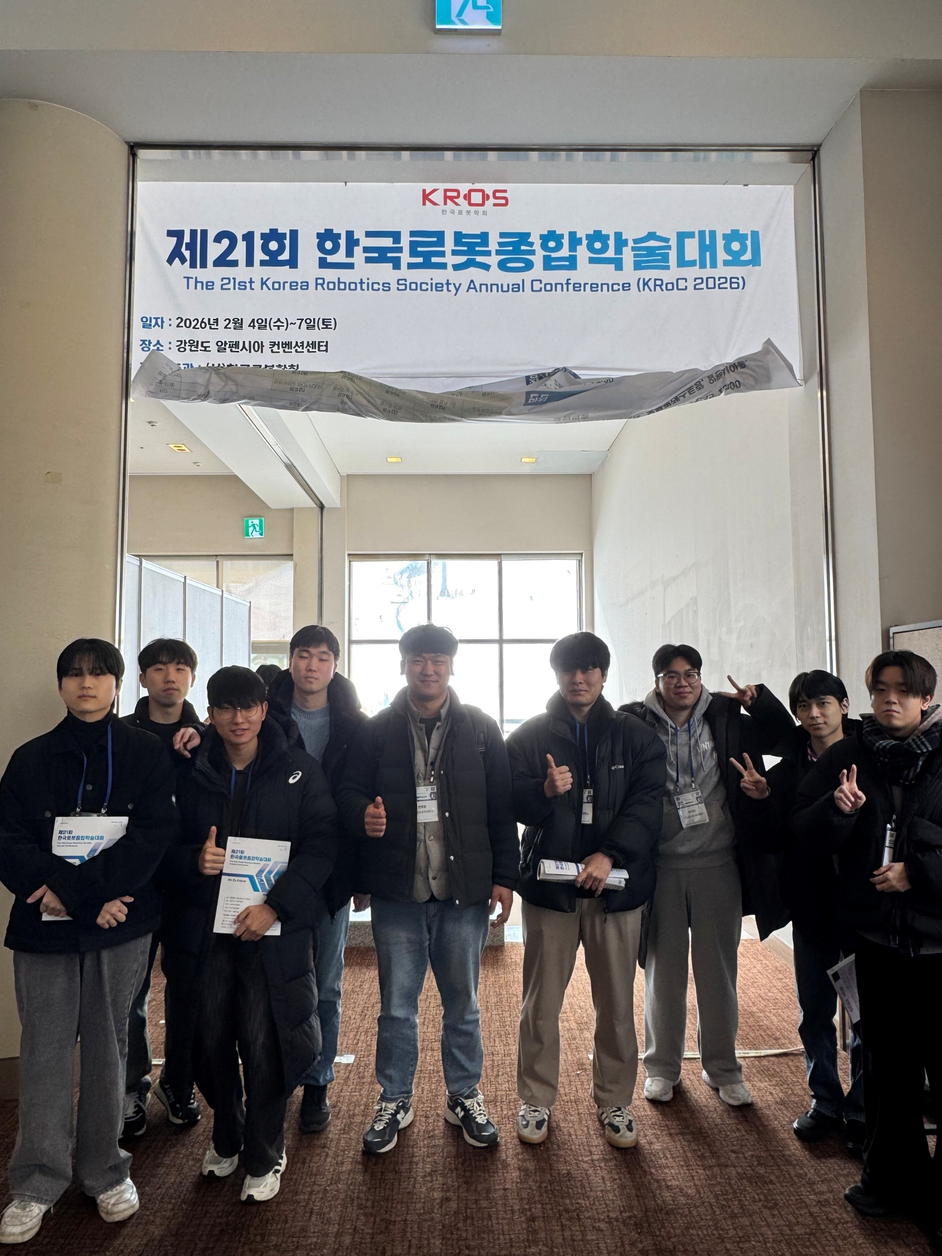
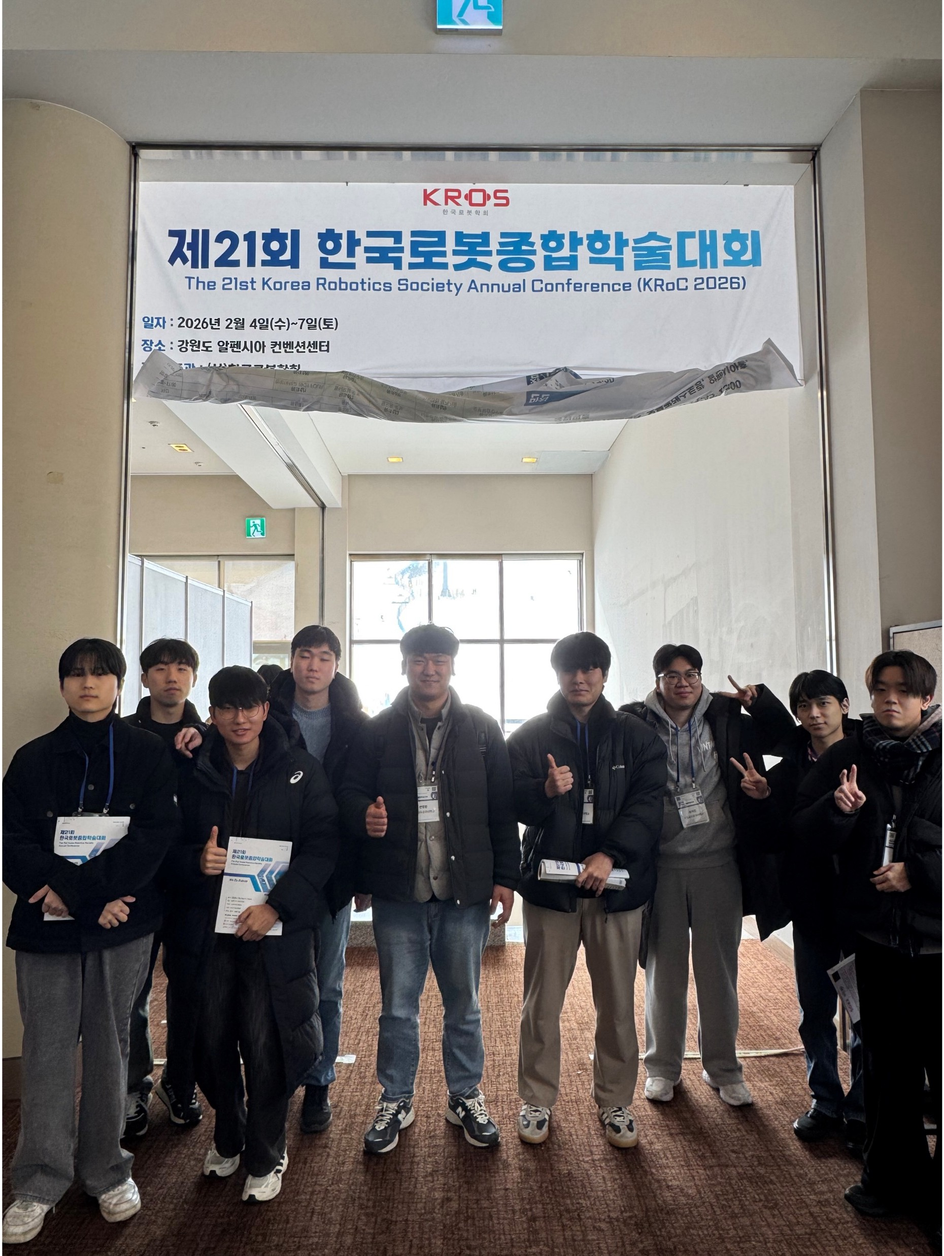
update

diff --git a/data/site.js b/data/site.js
@@ -113,6 +113,12 @@ window.raivData = {
     ],
   },
   albums: [
+      {
+      title: "RAIV-RML 연구 교류 워크샵",
+      date: "2026.07.09",
+      imageSrc: "assets/사진/앨범/joint_workshop_1.jpg",
+      imageAlt: "RAIV-RML 연구 교류 워크샵",
+    },
     {
       title: "2026년 한국로봇종합학술대회 참석",
       date: "2026.02.04-2026.02.06",
